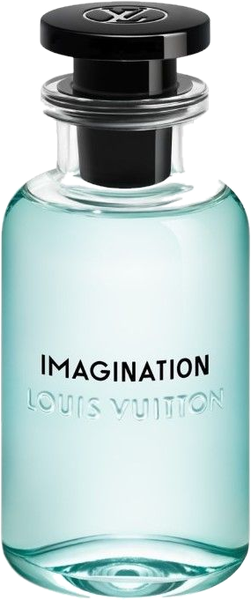
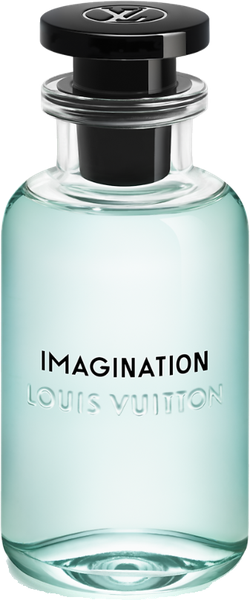
Swap bergamot plate for a citrus photo; refresh Imagination cluster bottle shots

diff --git a/lib/products.ts b/lib/products.ts
@@ -300,8 +300,8 @@ export const PRODUCTS: Product[] = [
     photo: { src: `${BASE}/products/imagination.png`, w: 251, h: 600 },
     accord: {
       note: { es: "Bergamota", en: "Bergamot" },
-      image: `${BASE}/products/bergamot-plate.jpg`,
-      focus: { x: 0.62, y: 0.5, zoom: 1.15 },
+      image: `${BASE}/products/citrus-plate.jpg`,
+      focus: { x: 0.38, y: 0.5, zoom: 1.15 },
       also: { es: "con té negro y ámbar gris", en: "with black tea and ambroxan" },
     },
     pyramid: {
@@ -332,8 +332,8 @@ export const PRODUCTS: Product[] = [
     photo: { src: `${BASE}/products/hectic.png`, w: 204, h: 600 },
     accord: {
       note: { es: "Bergamota", en: "Bergamot" },
-      image: `${BASE}/products/bergamot-plate.jpg`,
-      focus: { x: 0.62, y: 0.5, zoom: 1.15 },
+      image: `${BASE}/products/citrus-plate.jpg`,
+      focus: { x: 0.38, y: 0.5, zoom: 1.15 },
       also: { es: "con té negro y ámbar gris", en: "with black tea and ambroxan" },
     },
     pyramid: {
@@ -369,8 +369,8 @@ export const PRODUCTS: Product[] = [
     photo: { src: `${BASE}/products/imaginary.png`, w: 241, h: 600 },
     accord: {
       note: { es: "Bergamota", en: "Bergamot" },
-      image: `${BASE}/products/bergamot-plate.jpg`,
-      focus: { x: 0.62, y: 0.5, zoom: 1.15 },
+      image: `${BASE}/products/citrus-plate.jpg`,
+      focus: { x: 0.38, y: 0.5, zoom: 1.15 },
       also: { es: "con jengibre, té negro y ámbar gris", en: "with ginger, black tea and ambroxan" },
     },
     pyramid: {
@@ -406,8 +406,8 @@ export const PRODUCTS: Product[] = [
     photo: { src: `${BASE}/products/marwa.png`, w: 269, h: 600 },
     accord: {
       note: { es: "Bergamota", en: "Bergamot" },
-      image: `${BASE}/products/bergamot-plate.jpg`,
-      focus: { x: 0.62, y: 0.5, zoom: 1.15 },
+      image: `${BASE}/products/citrus-plate.jpg`,
+      focus: { x: 0.38, y: 0.5, zoom: 1.15 },
       also: { es: "con jengibre, canela y té negro", en: "with ginger, cinnamon and black tea" },
     },
     pyramid: {
@@ -443,8 +443,8 @@ export const PRODUCTS: Product[] = [
     photo: { src: `${BASE}/products/hawas-kobra.png`, w: 350, h: 600 },
     accord: {
       note: { es: "Bergamota", en: "Bergamot" },
-      image: `${BASE}/products/bergamot-plate.jpg`,
-      focus: { x: 0.62, y: 0.5, zoom: 1.15 },
+      image: `${BASE}/products/citrus-plate.jpg`,
+      focus: { x: 0.38, y: 0.5, zoom: 1.15 },
       also: { es: "con jengibre, mandarina y té verde", en: "with ginger, mandarin and green tea" },
     },
     pyramid: {
@@ -480,8 +480,8 @@ export const PRODUCTS: Product[] = [
     photo: { src: `${BASE}/products/amber-oud-aqua-dubai.png`, w: 295, h: 600 },
     accord: {
       note: { es: "Bergamota", en: "Bergamot" },
-      image: `${BASE}/products/bergamot-plate.jpg`,
-      focus: { x: 0.62, y: 0.5, zoom: 1.15 },
+      image: `${BASE}/products/citrus-plate.jpg`,
+      focus: { x: 0.38, y: 0.5, zoom: 1.15 },
       also: { es: "con mandarina, melón y piña", en: "with mandarin, melon and pineapple" },
     },
     pyramid: {

diff --git a/CREDITS.md b/CREDITS.md
@@ -49,7 +49,7 @@ Kept in the repo, not shown on the site. CC BY and CC BY-SA images need this att
 - apple-plate.jpg: Wikimedia Commons File:Red Apple.jpg by Abhijit Tembhekar, CC BY 2.0 (placed on white)
 - monarque.png: product photo from Cosmetify. Placeholder; replace with your own photography before going live.
 - island-vanilla-dunes.png, historic-sahara.png, art-of-nature-ii.png: product photos from Notino. Placeholders; replace with your own photography before going live.
-- bergamot-plate.jpg: File:Bergamot orange - whole and slice.jpg by Ivar Leidus, CC BY-SA 4.0, https://commons.wikimedia.org/wiki/File:Bergamot_orange_-_whole_and_slice.jpg (cut out and placed on white)
+- citrus-plate.jpg: Pexels photo 1414110, Pexels licence (backdrop whitened, placed on white)
 - hawas-kobra.png, hawas-ice.png, amber-oud-aqua-dubai.png, marwa.png: product photos from Notino. Placeholders; replace with your own photography before going live.
-- hectic.png, imagination.png: product photos from Fragrantica. Placeholders; replace with your own photography before going live.
+- hectic.png: product photo from Fragrantica. imagination.png: product photo from louisvuitton.com. Placeholders; replace with your own photography before going live.
 - imaginary.png: product photo from Montagne Parfums. Placeholder; replace with your own photography before going live.
